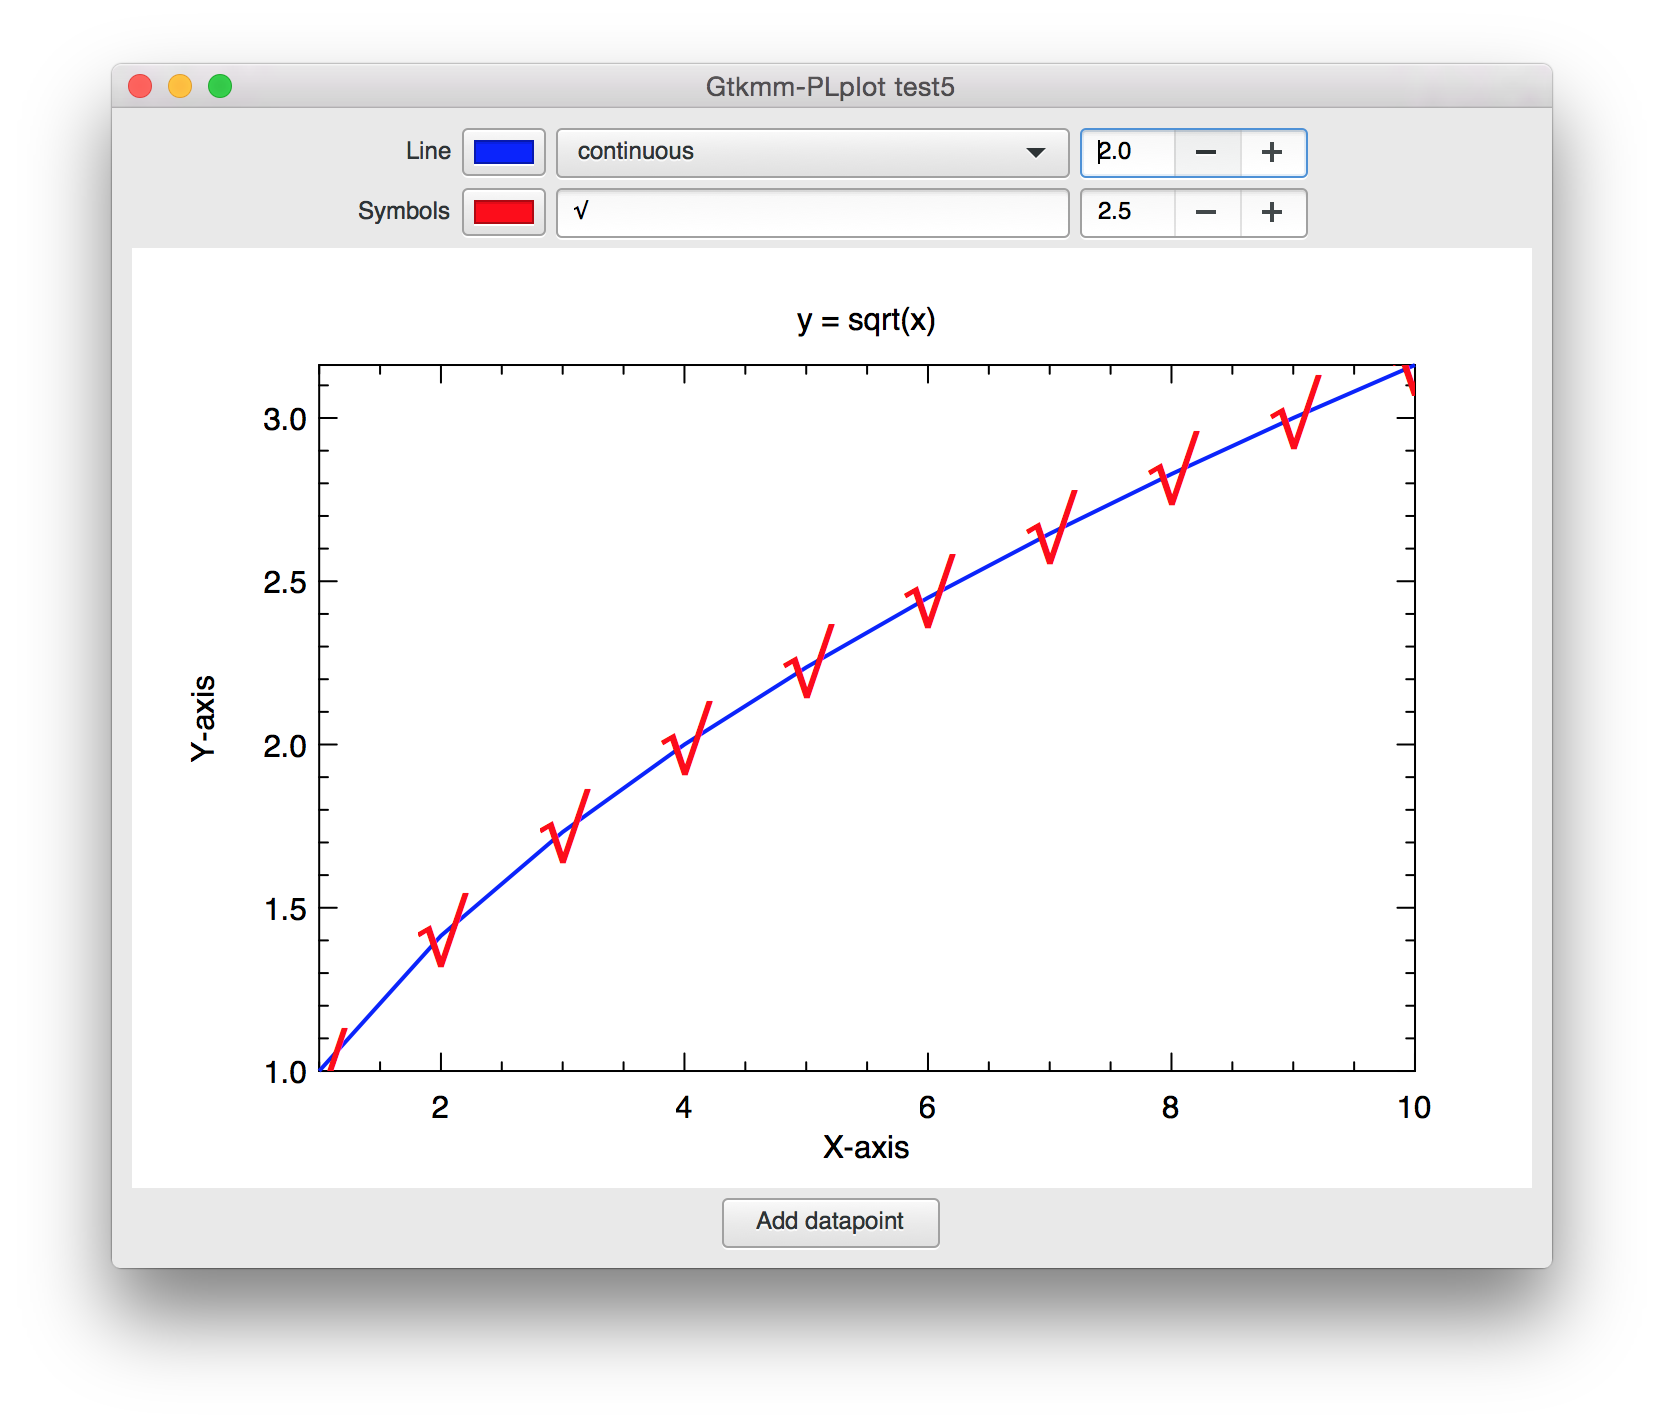
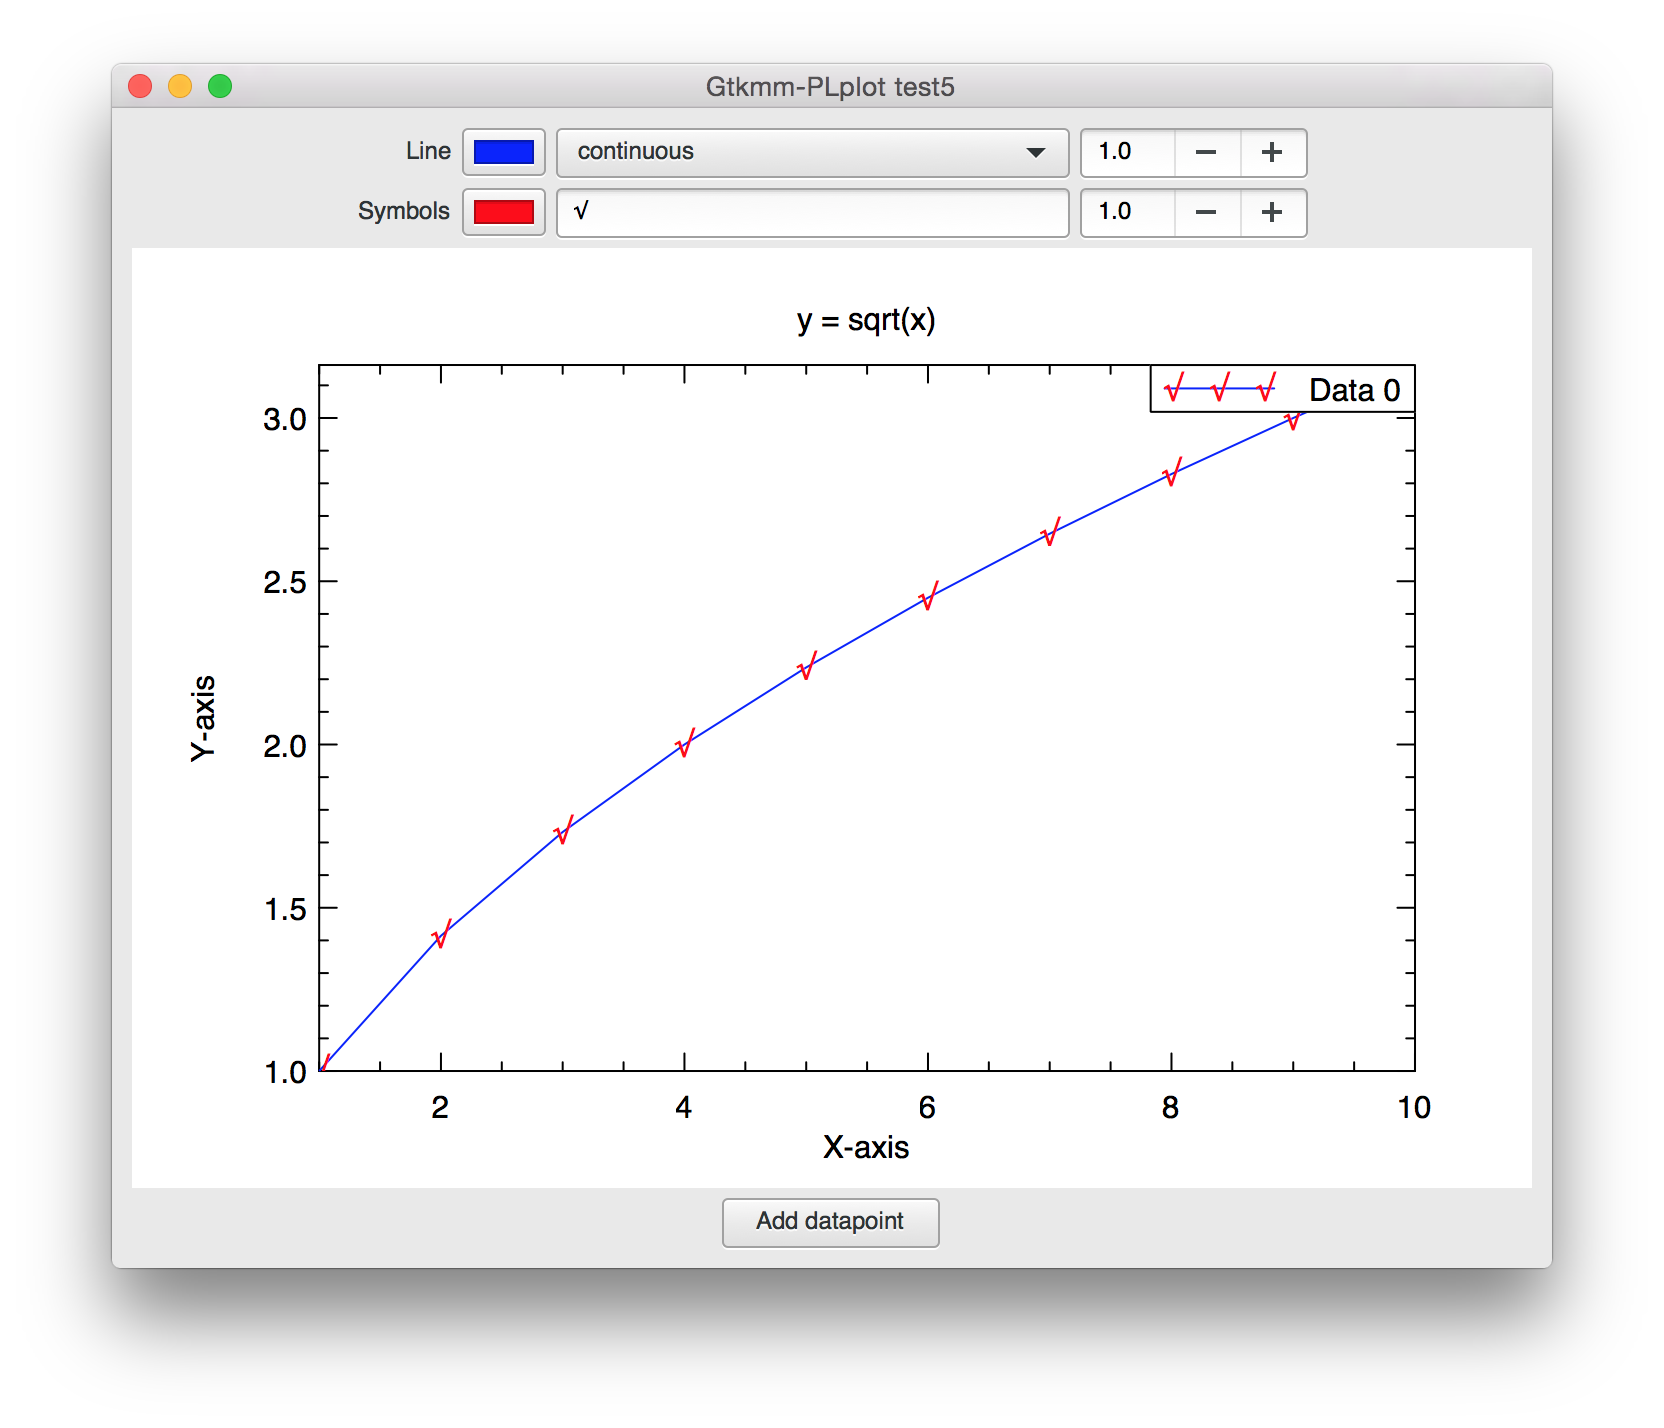
Legend examples updated

diff --git a/gtkmm-plplot/legend.cpp b/gtkmm-plplot/legend.cpp
@@ -18,7 +18,6 @@ along with this program.  If not, see <http://www.gnu.org/licenses/>.
 #include <gtkmm-plplot/legend.h>
 #include <gtkmm-plplot/exception.h>
 #include <gtkmm-plplot/utils.h>
-#include <iostream>
 #include <cstdlib>
 #include <glib.h>
 
@@ -33,7 +32,12 @@ Legend::Legend(
   legend_pos_x(_legend_pos_x),
   legend_pos_y(_legend_pos_y),
   legend_background_color(_legend_background_color),
-  legend_bounding_box_color(_legend_bounding_box_color) {}
+  legend_bounding_box_color(_legend_bounding_box_color) {
+
+  if (_legend_pos_x < 0.0 || _legend_pos_x > 1.0 ||
+      _legend_pos_y < 0.0 || _legend_pos_y > 1.0)
+    throw Exception("Gtk::PLplot::Legend::set_legend_position -> position must be expressed in normalized coordinates!");
+}
 
 void Legend::set_legend_background_color(Gdk::RGBA _legend_background_color) {
   if (legend_background_color == _legend_background_color)
@@ -57,6 +61,25 @@ Gdk::RGBA Legend::get_legend_bounding_box_color() {
   return legend_bounding_box_color;
 }
 
+void Legend::set_legend_position(double _legend_pos_x, double _legend_pos_y) {
+  if (_legend_pos_x == legend_pos_x && _legend_pos_y == legend_pos_y)
+    return;
+
+  if (_legend_pos_x < 0.0 || _legend_pos_x > 1.0 ||
+      _legend_pos_y < 0.0 || _legend_pos_y > 1.0)
+    throw Exception("Gtk::PLplot::Legend::set_legend_position -> position must be expressed in normalized coordinates!");
+
+  legend_pos_x = _legend_pos_x;
+  legend_pos_y = _legend_pos_y;
+  _signal_changed.emit();
+}
+
+void Legend::get_legend_position(double &_legend_pos_x, double &_legend_pos_y) {
+  _legend_pos_x = legend_pos_x;
+  _legend_pos_y = legend_pos_y;
+}
+
+
 void Legend::show_legend() {
   if (showing_legend)
     return;
@@ -76,21 +99,17 @@ bool Legend::is_showing_legend() {
 }
 
 void Legend::draw_legend(const Cairo::RefPtr<Cairo::Context> &cr) {
-  std::cout << "Entering Legend::draw_legend()" << std::endl;
-
   double legend_width, legend_height;
 
   int opt = PL_LEGEND_BACKGROUND | PL_LEGEND_BOUNDING_BOX;
   int position = 0; /* default */
   std::vector<int> opt_array;
   std::vector<int> text_colors;
-  int line_color;
   int line_style;
   double line_width;
   std::vector<int> line_colors;
   std::vector<int> line_styles;
   std::vector<double> line_widths;
-  int symbol_color;
   double symbol_scale;
   std::vector<int> symbol_colors;
   std::vector<double> symbol_scales;
@@ -107,8 +126,6 @@ void Legend::draw_legend(const Cairo::RefPtr<Cairo::Context> &cr) {
 
     if (iter2 == nullptr)
       throw Exception("Gtk::PLplot::Legend::draw_legend -> could not perform dynamic_cast to PlotData2D");
-
-    std::cout << "plot_data: " << index << std::endl;
 
     /* no need to add it to the legend if it's not visible! */
     if (!iter2->is_showing() || (
@@ -158,13 +175,23 @@ void Legend::draw_legend(const Cairo::RefPtr<Cairo::Context> &cr) {
   }
 
   auto nlegend = opt_array.size();
+
+  if (nlegend == 0) {
+    //no data was found
+    //cleanup
+    g_strfreev(text);
+    g_strfreev(symbols);
+    return;
+  }
+
   text_colors.assign(nlegend, GTKMM_PLPLOT_DEFAULT_COLOR_INDEX +1);
-  symbol_numbers.assign(nlegend, 1);
+  symbol_numbers.assign(nlegend, 3);
 
 
   change_plstream_color(pls, legend_background_color, false, GTKMM_PLPLOT_DEFAULT_COLOR_INDEX);
   change_plstream_color(pls, legend_bounding_box_color, false, GTKMM_PLPLOT_DEFAULT_COLOR_INDEX + 1);
 
+  pls->width(1.0);
 
   pls->legend(
     &legend_width,
@@ -184,7 +211,7 @@ void Legend::draw_legend(const Cairo::RefPtr<Cairo::Context> &cr) {
     1.0, /* text offset */
     1.0, /* text scale */
     2.0, /* text spacing */
-    1.0, /* text justification */
+    0.0, /* text justification */
     &text_colors[0],
     (const char * const *) text,
     NULL, NULL, NULL, NULL, /* box stuff that we are not using */

diff --git a/tests/test4.cpp b/tests/test4.cpp
@@ -29,7 +29,7 @@ namespace Test4 {
   class CheckButton : public Gtk::CheckButton {
   private:
     //we are not using any methods specific to Plot2D, so we can safely use Plot here
-    Gtk::PLplot::Plot *plot;
+    Gtk::PLplot::Plot2D *plot;
   public:
     CheckButton(Glib::ustring text) : Gtk::CheckButton(text), plot(nullptr) {}
     void on_toggled() final {
@@ -40,8 +40,9 @@ namespace Test4 {
       else
         plot->hide();
     }
-    void connect_plot(Gtk::PLplot::Plot *_plot) {
+    void connect_plot(Gtk::PLplot::Plot2D *_plot) {
       plot = _plot;
+      plot->hide_legend();
     }
   };
 
@@ -79,9 +80,69 @@ namespace Test4 {
       std::valarray<PLFLT> y_va3 = tanh(x_va);
 
       //generate the data, the plot, add them to the canvas and use the return value to pass it to the checkbutton
-      checkbutton1.connect_plot(canvas.add_plot(Gtk::PLplot::Plot2D(Gtk::PLplot::PlotData2D(x_va, y_va1, Gdk::RGBA("blue"), Gtk::PLplot::LineStyle::CONTINUOUS, 3.0), "X-axis", "Y-axis", "Hyperbolic sine", 0.5, 0.5, 0.0, 0.0)));
-      checkbutton2.connect_plot(canvas.add_plot(Gtk::PLplot::Plot2D(Gtk::PLplot::PlotData2D(x_va, y_va2, Gdk::RGBA("red"), Gtk::PLplot::LineStyle::CONTINUOUS, 3.0), "X-axis", "Y-axis", "Hyperbolic cosine", 0.5, 0.5, 0.5, 0.0)));
-      checkbutton3.connect_plot(canvas.add_plot(Gtk::PLplot::Plot2D(Gtk::PLplot::PlotData2D(x_va, y_va3, Gdk::RGBA("green"), Gtk::PLplot::LineStyle::CONTINUOUS, 3.0), "X-axis", "Y-axis", "Hyperbolic tangent", 0.4, 0.4, 0.2, 0.55)));
+      checkbutton1.connect_plot(
+        dynamic_cast<Gtk::PLplot::Plot2D *>(
+          canvas.add_plot(
+            Gtk::PLplot::Plot2D(
+              Gtk::PLplot::PlotData2D(
+                x_va,
+                y_va1,
+                Gdk::RGBA("blue"),
+              Gtk::PLplot::LineStyle::CONTINUOUS,
+              3.0),
+              "X-axis",
+              "Y-axis",
+              "Hyperbolic sine",
+              0.5,
+              0.5,
+              0.0,
+              0.0
+            )
+          )
+        )
+      );
+      checkbutton2.connect_plot(
+        dynamic_cast<Gtk::PLplot::Plot2D *>(
+          canvas.add_plot(
+            Gtk::PLplot::Plot2D(
+              Gtk::PLplot::PlotData2D(
+                x_va,
+                y_va2,
+                Gdk::RGBA("red"),
+                Gtk::PLplot::LineStyle::CONTINUOUS,
+                3.0),
+              "X-axis",
+              "Y-axis",
+              "Hyperbolic cosine",
+              0.5,
+              0.5,
+              0.5,
+              0.0
+            )
+          )
+        )
+      );
+      checkbutton3.connect_plot(
+        dynamic_cast<Gtk::PLplot::Plot2D *>(
+          canvas.add_plot(
+            Gtk::PLplot::Plot2D(
+              Gtk::PLplot::PlotData2D(
+                x_va,
+                y_va3,
+                Gdk::RGBA("green"),
+                Gtk::PLplot::LineStyle::CONTINUOUS,
+                3.0),
+              "X-axis",
+              "Y-axis",
+              "Hyperbolic tangent",
+              0.4,
+              0.4,
+              0.2,
+              0.55
+            )
+          )
+        )
+      );
 
       checkbutton1.set_active();
       checkbutton2.set_active(false);

diff --git a/gtkmm-plplot/legend.h b/gtkmm-plplot/legend.h
@@ -32,7 +32,7 @@ namespace Gtk {
      * by adding support for a legend that shows a short string with a description of each dataset.
      * Such a legend consists of a box which contains a list of these descrptions, along with a small plot
      * of the line and/or symbol that was used to render the corresponding dataset.
-     * This is demonstrated in example \ref example1.
+     * This is demonstrated in examples \ref example2, \ref example5 and \ref example6.
      */
     class Legend : public virtual Plot {
     private:
@@ -95,6 +95,25 @@ namespace Gtk {
        * \returns the legend bounding box color
        */
       Gdk::RGBA get_legend_bounding_box_color();
+
+      /** Sets the new position of the legend
+       *
+       * This position corresponds to the normalized coordinates
+       * of the top right corner of the legend, measured with respect to the
+       * top right corner of the plot box.
+       * \param legend_pos_x the new position of the right top corner of the legend along the X-axis in normalized coordinates
+       * \param legend_pos_y the new position of the right top corner of the legend along the Y-axis in normalized coordinates
+       * \exception Gtk::PLplot::Exception
+       */
+      void set_legend_position(double legend_pos_x, double legend_pos_y);
+
+      /** Gets the current position of the legend
+       *
+       * See set_legend_position() for more information.
+       * \param legend_pos_x the current position of the right top corner of the legend along the X-axis in normalized coordinates
+       * \param legend_pos_y the current position of the right top corner of the legend along the Y-axis in normalized coordinates
+       */
+      void get_legend_position(double &legend_pos_x, double &legend_pos_y);
 
       /** Show the legend
        *

diff --git a/tests/test2.cpp b/tests/test2.cpp
@@ -58,9 +58,16 @@ namespace Test2 {
 
 
         Gtk::PLplot::Plot2D *plot = dynamic_cast<Gtk::PLplot::Plot2D *>(canvas.get_plot(0));
-        plot->add_data(Gtk::PLplot::PlotData2D(x, y2, Gdk::RGBA("blue")));
-        plot->add_data(Gtk::PLplot::PlotData2D(x, y3, Gdk::RGBA("Blue Violet")));
-        plot->add_data(Gtk::PLplot::PlotData2D(x, y4, Gdk::RGBA("Green")));
+        Gtk::PLplot::PlotData2D *plot_data1 = dynamic_cast<Gtk::PLplot::PlotData2D *>(plot->get_data(0));
+        Gtk::PLplot::PlotData2D *plot_data2 = plot->add_data(Gtk::PLplot::PlotData2D(x, y2, Gdk::RGBA("blue")));
+        Gtk::PLplot::PlotData2D *plot_data3 = plot->add_data(Gtk::PLplot::PlotData2D(x, y3, Gdk::RGBA("Blue Violet")));
+        Gtk::PLplot::PlotData2D *plot_data4 = plot->add_data(Gtk::PLplot::PlotData2D(x, y4, Gdk::RGBA("Green")));
+
+        plot_data1->set_name("1 interaction");
+        plot_data2->set_name("2 interactions");
+        plot_data3->set_name("3 interactions");
+        plot_data4->set_name("4 interactions");
+
         plot->set_axis_logarithmic_y();
 
         set_default_size(720, 580);

diff --git a/gtkmm-plplot/plotdata.h b/gtkmm-plplot/plotdata.h
@@ -37,11 +37,11 @@ namespace Gtk {
      */
     class PlotData : public sigc::trackable {
     private:
-      PlotData &operator=(const PlotData &) = delete; ///< no move assignment operator
-      PlotData(const PlotData &source) = delete; ///< No copy constructor;
-    protected:
       Glib::ustring name; ///< the name that will be assigned to the dataset. Will be used to generate legends if supported by the Plot type
       bool shown; ///< \c true means the plot is currently visible, \c false means it is not plotted
+      PlotData &operator=(const PlotData &) = delete; ///< no move assignment operator
+    protected:
+      PlotData(const PlotData &source); ///< Copy constructor;
       sigc::signal<void> _signal_changed; ///< signal that gets emitted whenever any of the dataset proprties is changed.
       sigc::signal<void> _signal_data_modified; ///< signal that gets emitted whenever the X- and Y-datasets have been modified.
       /** This is a default handler for signal_changed()

diff --git a/gtkmm-plplot/plotdata2d.cpp b/gtkmm-plplot/plotdata2d.cpp
@@ -74,12 +74,14 @@ PlotData2D::PlotData2D(
   _color, _line_style, _line_width) {}
 
 PlotData2D::PlotData2D(const PlotData2D &_data) :
-  PlotData2D(_data.x, _data.y, _data.color, _data.line_style, _data.line_width) {
-    shown = _data.shown;
-    symbol = _data.symbol;
-    symbol_color = _data.symbol_color;
-    symbol_scale_factor = _data.symbol_scale_factor;
-}
+  PlotData(_data),
+  x(_data.x),
+  y(_data.y),
+  color(_data.color),
+  line_style(_data.line_style),
+  line_width(_data.line_width),
+  symbol_color(_data.symbol_color),
+  symbol_scale_factor(_data.symbol_scale_factor) {}
 
 PlotData2D::~PlotData2D() {
 
@@ -154,7 +156,7 @@ void PlotData2D::add_datapoint(std::pair<PLFLT, PLFLT> _xy_pair) {
 
 
 void PlotData2D::draw_plot_data(const Cairo::RefPtr<Cairo::Context> &cr, plstream *pls) {
-  if (!shown)
+  if (!is_showing())
     return;
 
   PLFLT *x_pl = &x[0], *y_pl = &y[0];

diff --git a/gtkmm-plplot/plot2d.h b/gtkmm-plplot/plot2d.h
@@ -35,7 +35,8 @@ namespace Gtk {
      *  Several properties may be set such as the axes and plot titles, type of scaling (linear or logarithmic).
      *  Important is that whenever a property is changed, \c signal_changed() is emitted, which will eventually
      *  be picked up by the \c canvas that will hold the plot.
-     *  For more information, the reader is referred to the examples \ref example1 and \ref example2.
+     *  For more information, the reader is referred to the examples \ref example1, \ref example2, \ref example3, \ref example4
+     *  and \ref example5.
      */
     class Plot2D : public virtual Plot, public Legend {
     private:

diff --git a/gtkmm-plplot/utils.cpp b/gtkmm-plplot/utils.cpp
@@ -19,7 +19,6 @@ along with this program.  If not, see <http://www.gnu.org/licenses/>.
 #include <string>
 #include <cstdlib>
 #include <cstring>
-#include <iostream>
 
 static std::vector<std::string> _colormaps = {
   "cmap1_default.pal",
@@ -46,7 +45,6 @@ std::valarray<PLFLT> Gtk::PLplot::indgen_va(unsigned int n) {
 }
 
 void Gtk::PLplot::change_plstream_color(plstream *pls, Gdk::RGBA color, bool activate, int index) {
-  std::cout << "Gtk::PLplot::change_plstream_color: " << index << std::endl;
   pls->scol0a(index, color.get_red_u()/256, color.get_green_u()/256, color.get_blue_u()/256, color.get_alpha());
   if (activate)
     pls->col0(index);

diff --git a/gtkmm-plplot/plotpolar.h b/gtkmm-plplot/plotpolar.h
@@ -19,6 +19,7 @@ along with this program.  If not, see <http://www.gnu.org/licenses/>.
 #define GTKMM_PLPLOT_PLOTPOLAR_H
 
 #include <gtkmm-plplot/plot.h>
+#include <gtkmm-plplot/legend.h>
 #include <gtkmm-plplot/plotdata2d.h>
 
 namespace Gtk {
@@ -36,7 +37,7 @@ namespace Gtk {
      *  be picked up by the \c canvas that will hold the plot.
      *  An example of this class is presented in \ref example6.
      */
-    class PlotPolar : public Plot {
+    class PlotPolar : public virtual Plot, public Legend {
     private:
       PLFLT max_r; ///< the maximum radial coordinate in the datasets
       PlotPolar() = delete; ///< no default constructor

diff --git a/tests/test6.cpp b/tests/test6.cpp
@@ -55,12 +55,14 @@ namespace Test6 {
         "",
         "Polar coordinate system"
       );
+      plot.get_data()->set_name("Cardiod");
 
       //Fermat's spiral
       std::valarray<PLFLT> theta2 = Gtk::PLplot::indgen_va(2000)*4.0*M_PI/1999.0;
       std::valarray<PLFLT> r2 = sqrt(theta2) * M_2_SQRTPI * 1.1;
 
       auto data2 = Gtk::PLplot::PlotData2D(r2, theta2, Gdk::RGBA("green"), Gtk::PLplot::LineStyle::CONTINUOUS, 2.0);
+      data2.set_name("Fermat's spiral");
 
       auto plot_ref = canvas.add_plot(plot);
       plot_ref->add_data(data2);

diff --git a/gtkmm-plplot/plotpolar.cpp b/gtkmm-plplot/plotpolar.cpp
@@ -219,6 +219,14 @@ void PlotPolar::draw_plot(const Cairo::RefPtr<Cairo::Context> &cr, const int wid
   for (auto &iter : plot_data) {
     iter->draw_plot_data(cr, pls);
   }
+
+  //undo the coordinate transform
+  pls->stransform(NULL, NULL);
+
+  //legend
+  if (is_showing_legend())
+    draw_legend(cr);
+
   cr->restore();
 
   convert_plplot_to_cairo_coordinates(plotted_range_x[0], plotted_range_y[0],

diff --git a/gtkmm-plplot/plotdatasurface.cpp b/gtkmm-plplot/plotdatasurface.cpp
@@ -106,7 +106,10 @@ PlotDataSurface::PlotDataSurface(
 
 //copy constructor
 PlotDataSurface::PlotDataSurface(const PlotDataSurface &_data) :
-  PlotDataSurface(_data.x, _data.y, _data.z) {}
+  PlotData(_data),
+	x(_data.x),
+	y(_data.y),
+	z(deep_copy_array2d(_data.z, _data.x.size(), _data.y.size())) {}
 
 PlotDataSurface::~PlotDataSurface() {
   free_array2d((void **) z, x.size());
